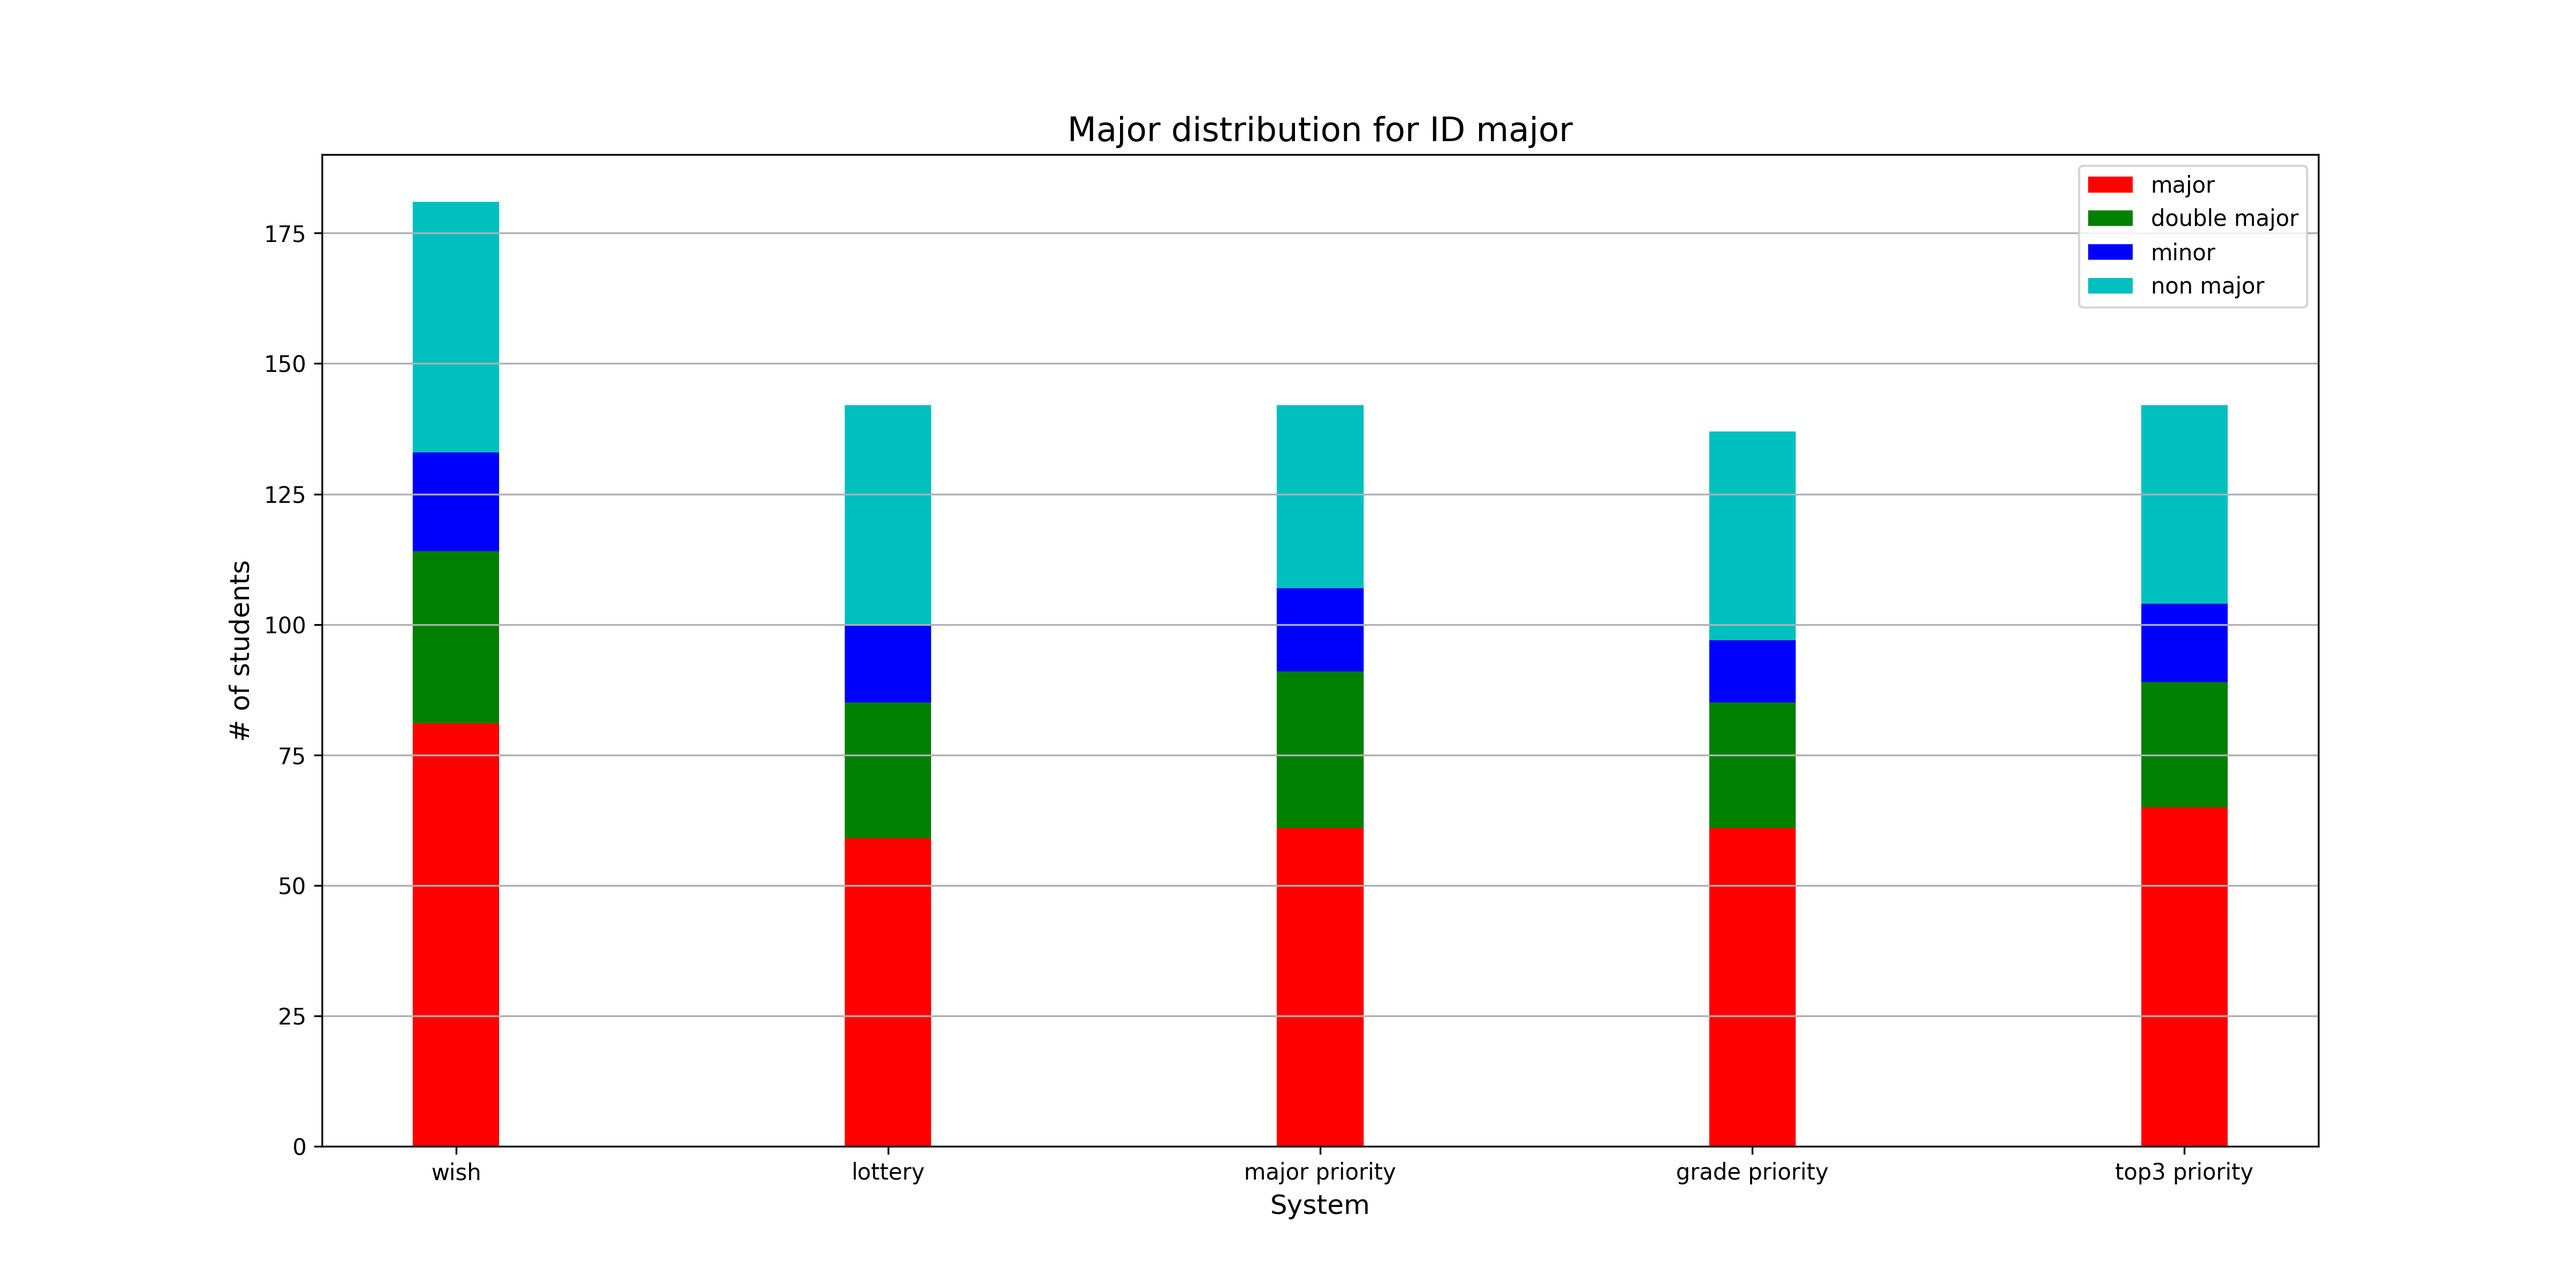
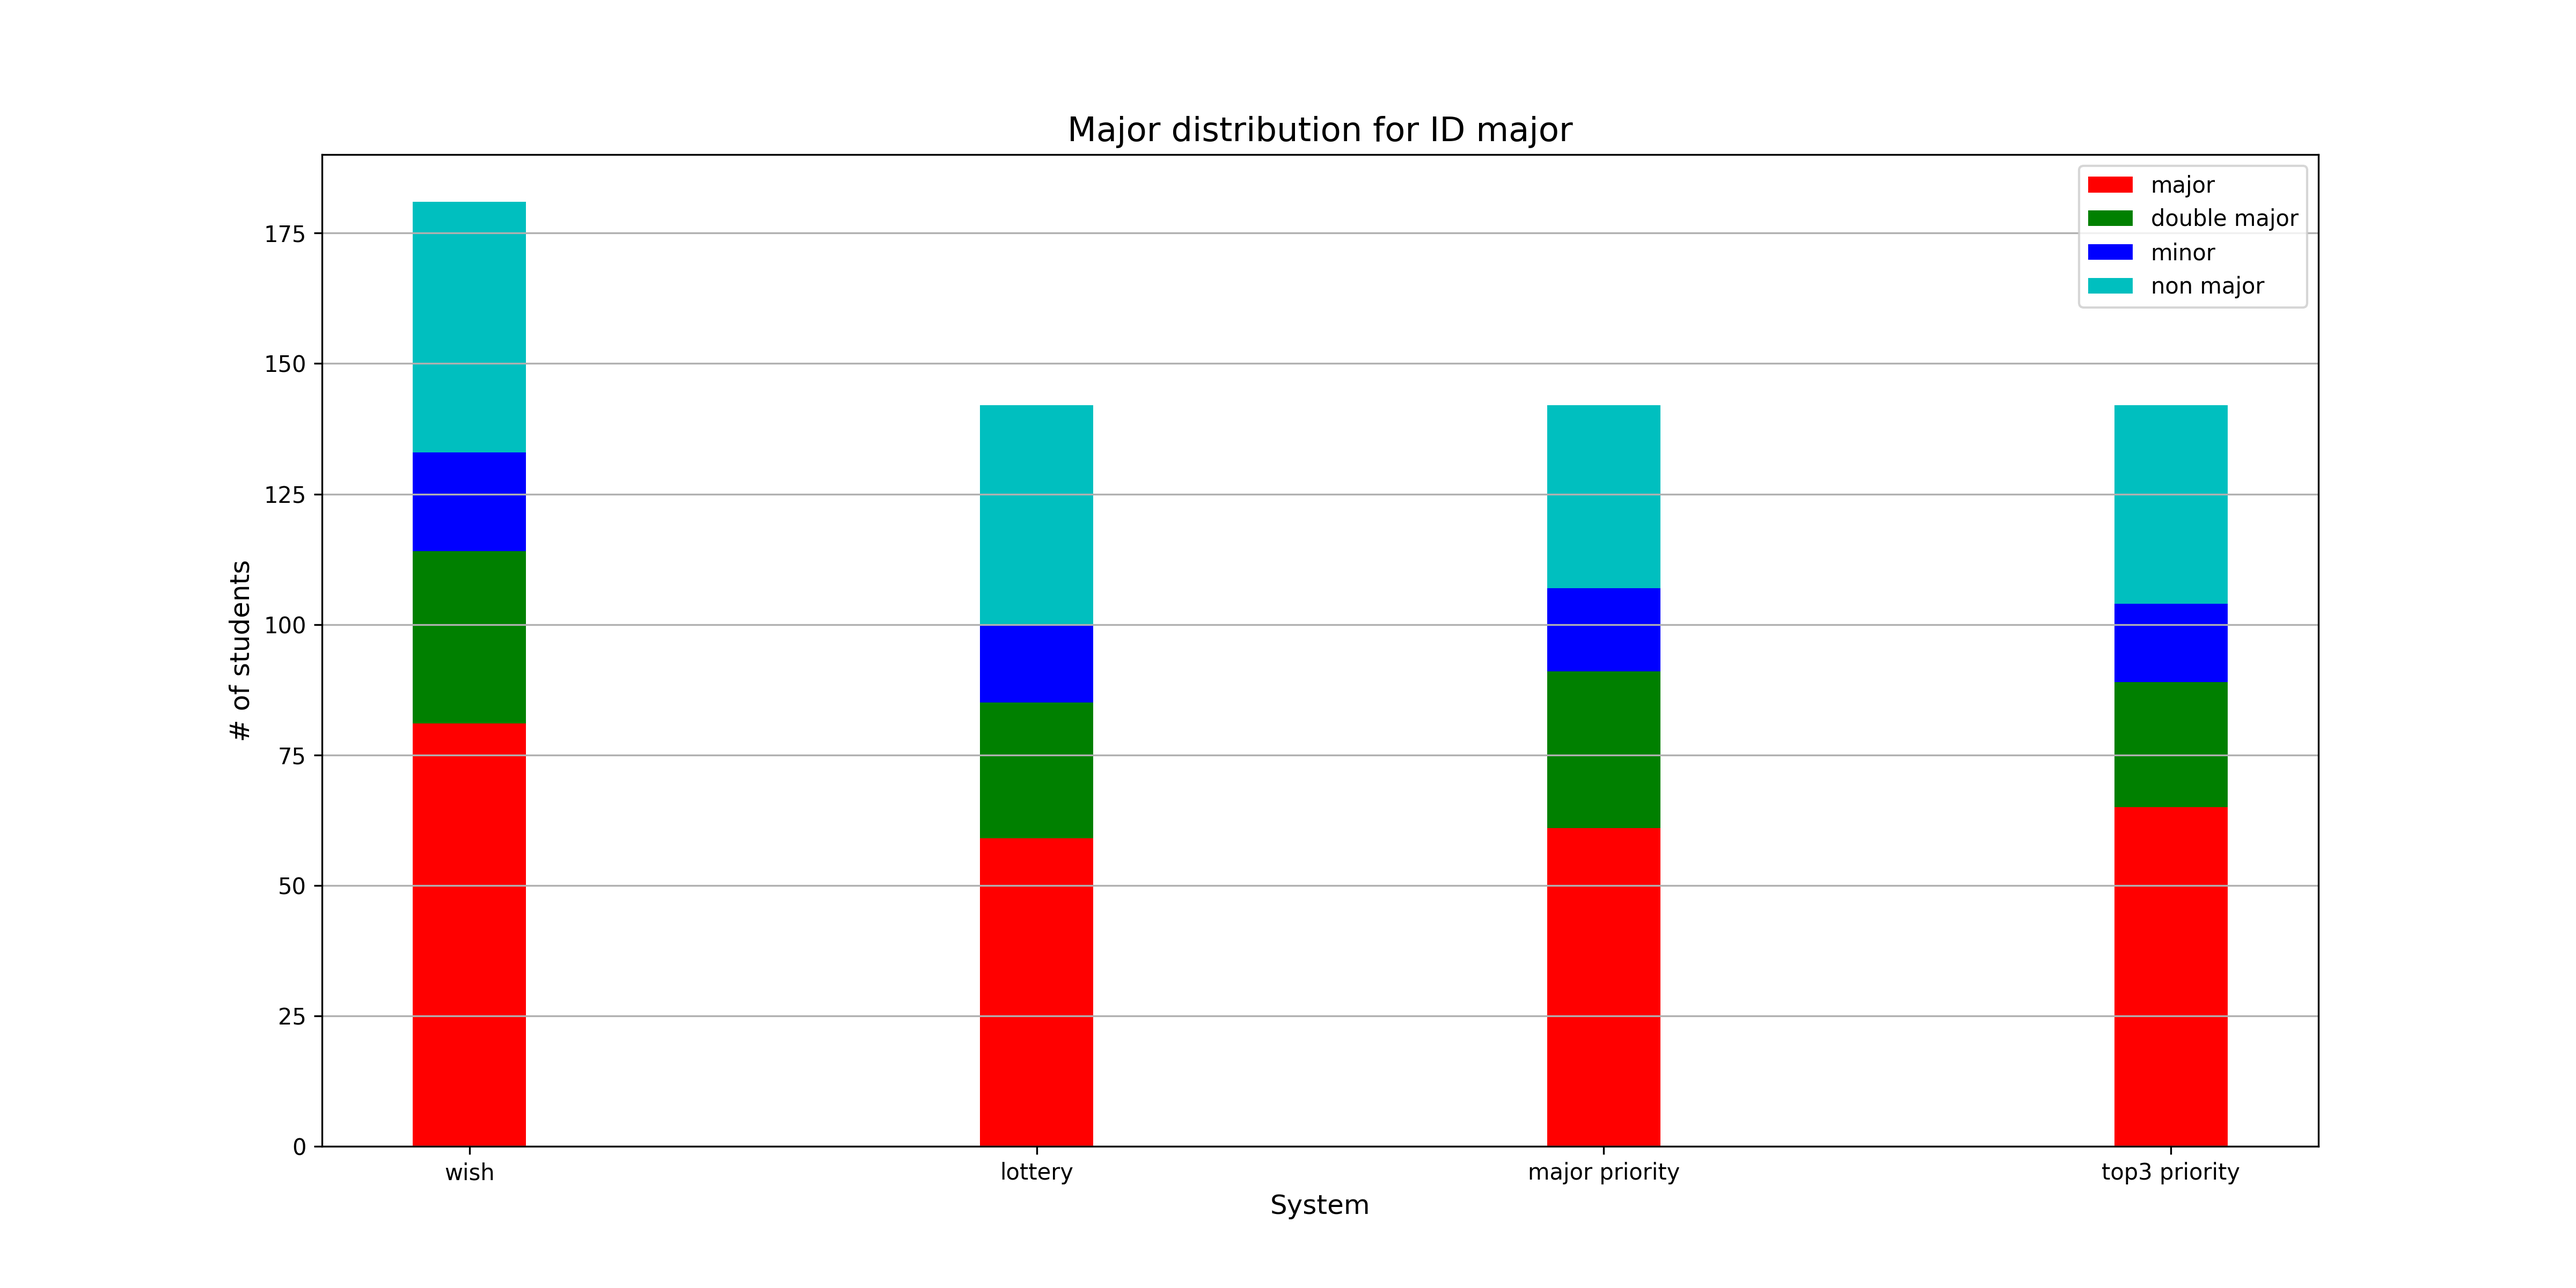
update major & credit distribution

diff --git a/visualization/metrics/major_priority.py b/visualization/metrics/major_priority.py
@@ -54,6 +54,7 @@ def get_major_ratios(major_satisfaction, major_type):
 def major_satisfaction(results, semester):
     major_satisfaction = {}
     systems = list(results.keys())
+    systems.remove('grade priority')
     for system in systems:
         timetables = {}
         final_timetables = {}
@@ -69,6 +70,10 @@ def major_satisfaction(results, semester):
             except:
                 major_satisfaction[major] = {system : ratios}
     
+    satisfaction_bar(major_satisfaction, semester, systems)
+    satisfaction_plot(major_satisfaction, semester, systems)
+
+def satisfaction_bar(major_satisfaction, semester, systems):
     ## 각 전공 별 주전/복전/부전 각각의 만족도 그래프
     for major in majors:
         x = np.arange(len(systems))
@@ -87,11 +92,33 @@ def major_satisfaction(results, semester):
         major_name = str(major).replace('Major.', '')
         plt.title("Major satisfaction for "+major_name+" major")
         plt.legend()
-        plt.savefig('result/'+semester+'/major_satisfaction_'+major_name+'_major.png', dpi=300)
+        plt.savefig('result/'+semester+'/major_satisfaction_bar_'+major_name+'_major.png', dpi=300)
+        plt.close()
+
+def satisfaction_plot(major_satisfaction, semester, systems):
+    for major in majors:
+        plt.clf()
+        for system in systems:
+            x = ['major', 'double_major', 'minor', 'no_major']
+            y = []
+            for i in x:
+                y.append(major_satisfaction[major][system][i])
+
+            plt.plot(x, y, label=system, color=COLOR.value_of(system))
+        
+        plt.xticks(x)
+        plt.ylim(0, 100)
+        plt.ylabel("Win rate")
+        plt.xlabel("Systems")
+        major_name = str(major).replace('Major.', '')
+        plt.title("Major satisfaction for "+major_name+" major")
+        plt.legend()
+        plt.savefig('result/'+semester+'/major_satisfaction_plot_'+major_name+'_major.png', dpi=300)
         plt.close()
 
 def major_distribution(results, semester):
     systems = list(results.keys())
+    systems.remove('grade priority')
     wish = {}
     final = {}
     for major in majors:

diff --git a/visualization/metrics/credit_distribution.py b/visualization/metrics/credit_distribution.py
@@ -3,6 +3,7 @@ import pandas as pd
 import numpy as np
 from registration.student import Degree
 from visualization.color import COLOR
+from visualization.marker import MARKER
 
 def sum_credits(timetable):
     credits = 0
@@ -37,12 +38,17 @@ def credit_distribution(results, semester):
     df.loc['wish', ">= 9 credits (%)"] = round(over_standard / all_students * 100, 2)
 
     
-    bins = int(MAX_CREDIT)
-    histogram, _ = np.histogram(wish_credits, bins = bins)
-    plt.plot(range(bins), list(histogram[:MAX_CREDIT]), color=COLOR.ELSE, alpha = 0.5, label = "wish credits")
+    # bins = int(MAX_CREDIT)
+    # histogram, _ = np.histogram(wish_credits, bins = bins)
+    # plt.plot(range(bins), list(histogram[:MAX_CREDIT]), color=COLOR.ELSE, alpha = 0.5, label = "wish credits")
     
     # get win credit for each system
-    for system in results:
+
+    systems = list(results.keys())
+    systems.remove('grade priority')
+    systems.remove('major priority')
+
+    for system in systems:
         final_credits = []
         students = results[system]
         over_standard = 0
@@ -59,7 +65,7 @@ def credit_distribution(results, semester):
         
         bins = int(MAX_CREDIT)
         histogram, _ = np.histogram(final_credits, bins = bins)
-        plt.plot(range(bins), list(histogram[:MAX_CREDIT]), color=COLOR.value_of(system), label = "win credits of "+system+" system")
+        plt.plot(range(bins), list(histogram[:MAX_CREDIT]), color=COLOR.value_of(system), marker=MARKER.value_of(system), label = "win credits of "+system+" system")
         
     plt.xticks(range(bins))
     plt.xlabel("Credits of final timetable")

diff --git a/visualization/marker.py b/visualization/marker.py
@@ -1,0 +1,24 @@
+from enum import Enum
+
+class MARKER(str, Enum):
+    LOTTERY = "H"
+    MAJOR = None
+    GRADE = None
+    TOP3 = None
+    TOP3B1 = "x"
+    ELSE = "^"
+
+    @classmethod
+    def value_of(cls, value):
+        if value == "lottery":
+            return cls.LOTTERY
+        elif value == "major priority":
+            return cls.MAJOR
+        elif value == "grade priority":
+            return cls.GRADE
+        elif value == "top3 priority":
+            return cls.TOP3
+        elif value == "top3 based 1":
+            return cls.TOP3B1
+        else:
+            return cls.ELS

diff --git a/visualization/metrics/grade_priority.py b/visualization/metrics/grade_priority.py
@@ -16,8 +16,9 @@ def grade_satisfaction(results, semester):
     labels = ['Logical Writing', 'AU', 'Basic Required', 'All']
     for label in labels:
         plt.clf()
-
-        for system in results:
+        systems = list(results.keys())
+        systems.remove('major priority')
+        for system in systems:
             students = results[system]
             y = [[] for i in range(5)]
             timetables = {}
